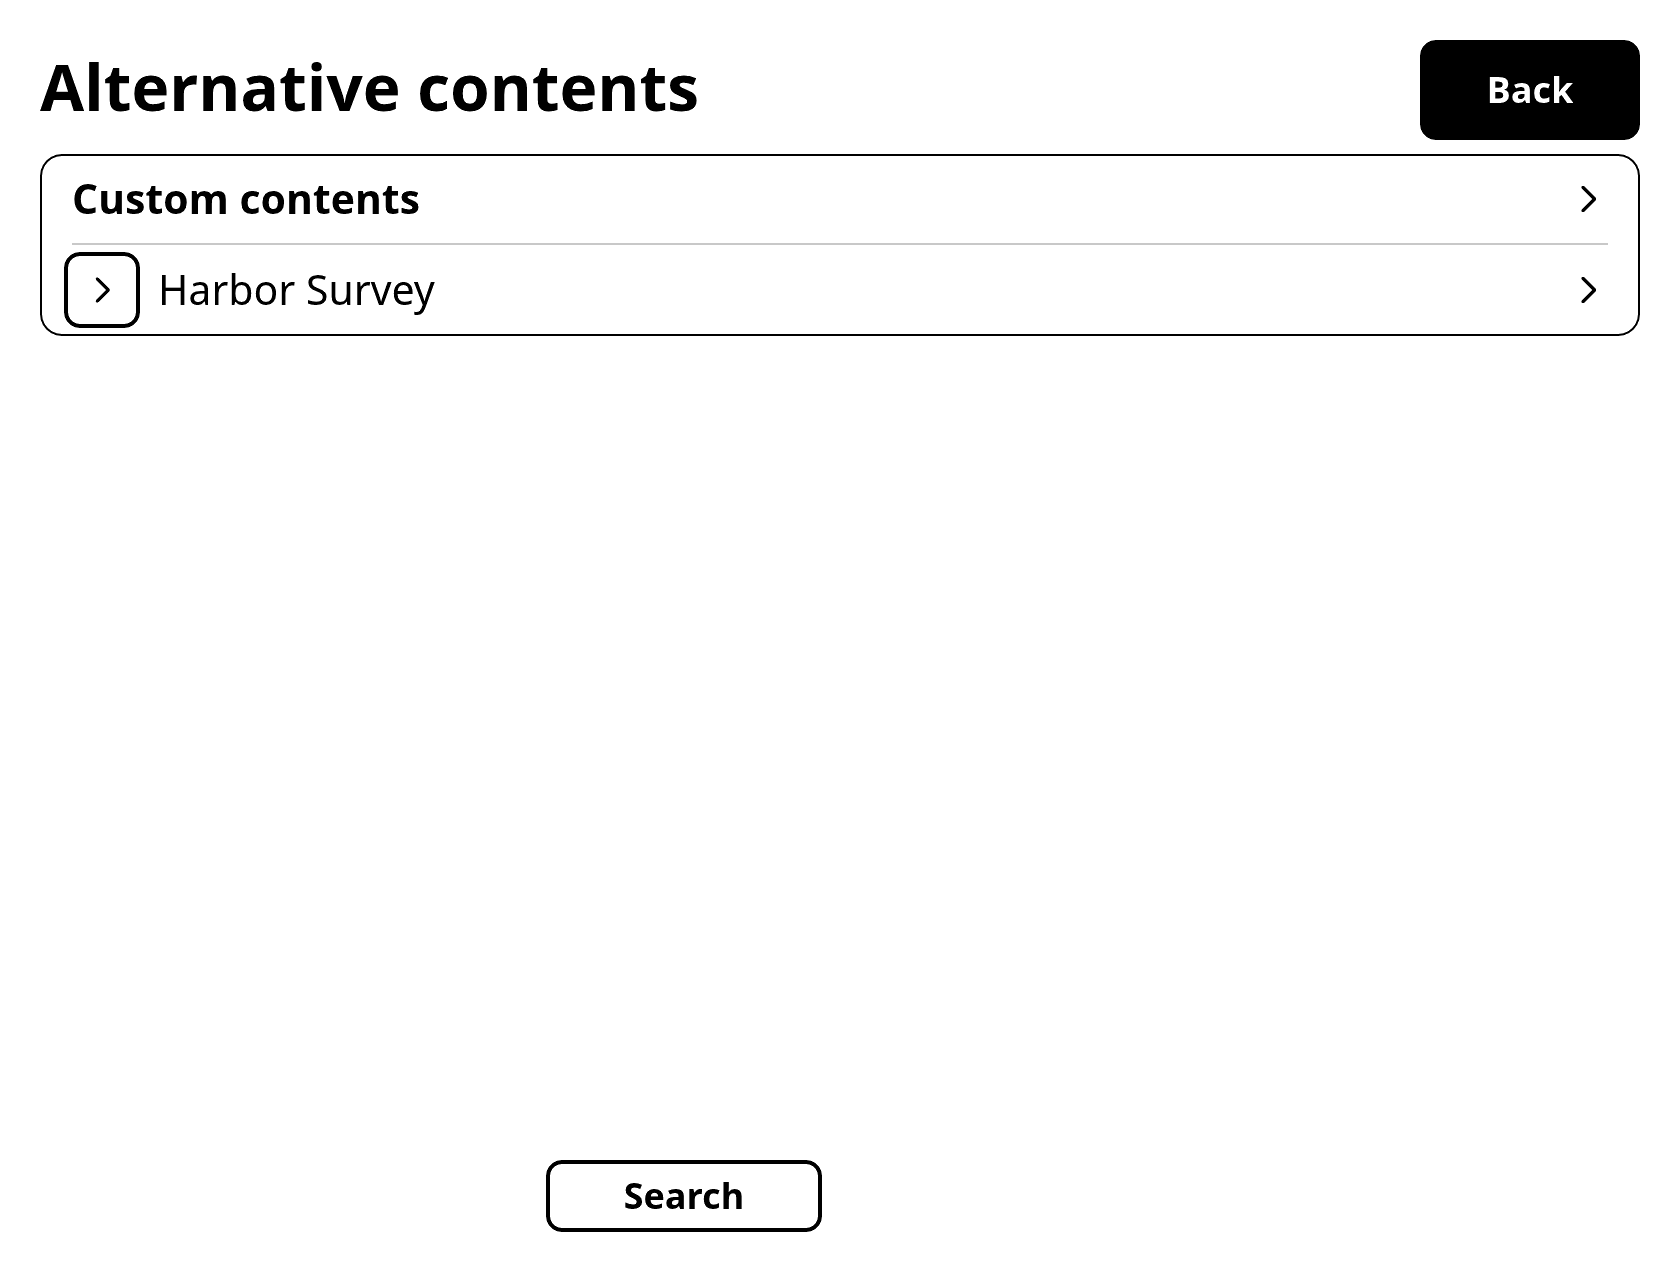
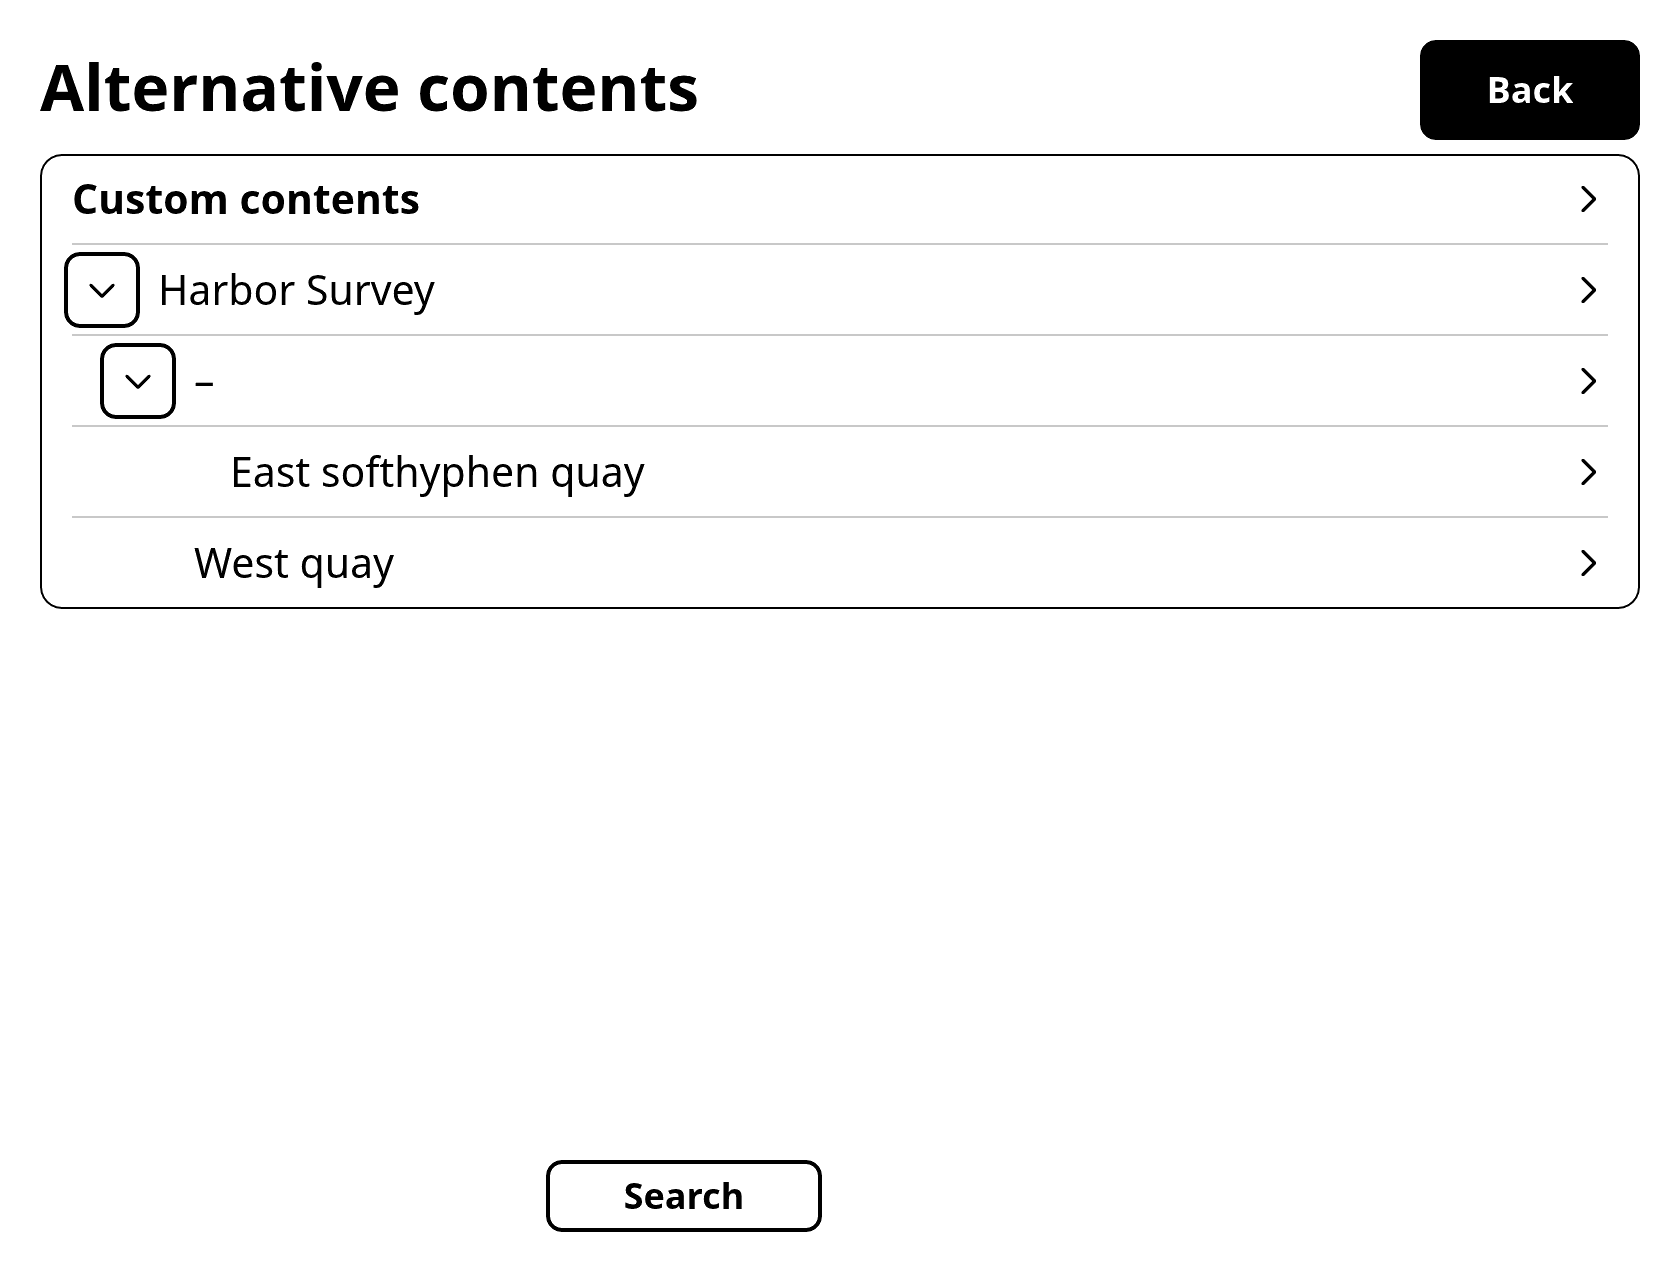
Record alternative Contents and fit pagination evidence

diff --git a/docs/simulation-review.md b/docs/simulation-review.md
@@ -2,6 +2,31 @@
 
 ## Current Mac simulator checkpoint
 
+Dictionary popup actions can be reordered, hidden and arranged one to four
+per row. The pinned KOReader callbacks cover sorting, toggling, paired
+arrows, preview and reset. The Mac simulator checks a saved layout after
+reopen, action paging, Translate confirmation and a highlight saved at the
+starting EPUB passage.
+[Popup layout comparison and captures](dictionary-popup-display.md#arrange-popup-buttons)
+
+An alternative table of contents can use document headings in the normal
+Contents list and remember that mode for the edition. The pinned native
+comparison verifies the hierarchy, placeholder levels, soft-hyphen
+cleanup and fragment fallback across two authored EPUBs. The Mac simulator
+checks the confirmed switch, nested touch jumps, publisher restore, and
+preserved source location.
+[Alternative contents and captures](contents-list-settings.md#alternative-table-of-contents)
+
+Fitted EPUB paragraphs in the internal Book and Web policies resolve
+vertical padding and keep its edges with the first and last text lines
+through page turns. The pinned native comparison checks 40 geometry
+and page-position cases. Mac tests verify the text links, selection
+and resume across a forced break and a naturally split paragraph.
+The engines still make different line and page cuts.
+[Vertical padding comparison and captures](render-modes.md#vertical-padding-at-page-boundaries)
+
+## Dictionary size, ribbon navigation, closing profiles and decorated widths checkpoint
+
 Dictionary definitions use a saved font size from 8 to 32. The pinned
 KOReader callbacks and Mac tests check the default of 20, tap and hold
 steps, bounds and Apply. The simulator checks line wrapping, long-press

diff --git a/docs/reading-parity-plan.md b/docs/reading-parity-plan.md
@@ -49,7 +49,7 @@ device evidence. The control inventory and foreground Kindle acceptance
 checks below track the remaining feature and device work.
 
 **Pinned control inventory:** 232 of 536 in-scope reading-control rows have
-an implemented workflow, 236 are partial, 46 are gaps, and 22 need audit. The
+an implemented workflow, 237 are partial, 46 are gaps, and 21 need audit. The
 [statistics reset comparison](reading-statistics.md#reset-statistics) updates
 seven rows with an executable stock check and Mac verification.
 Reader 0.1.32 adds [search from selection](selection-search.md),
